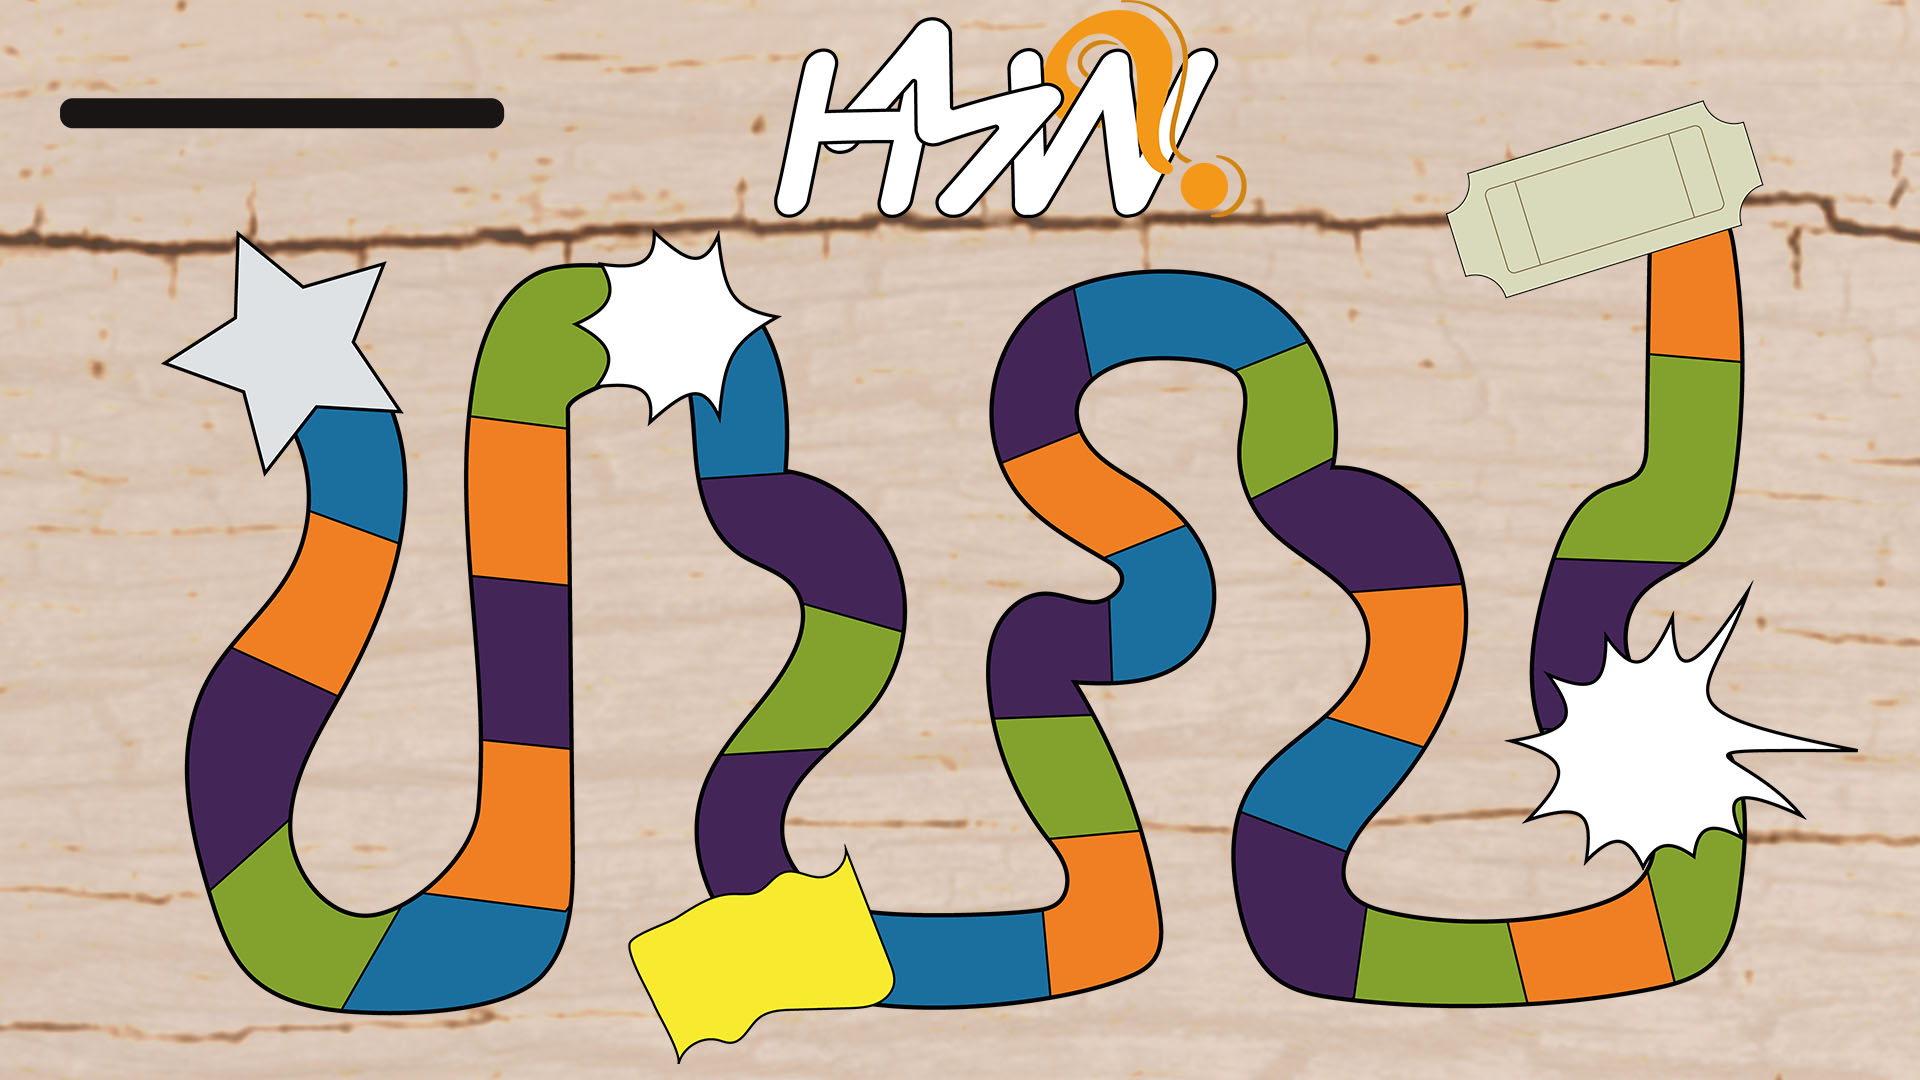
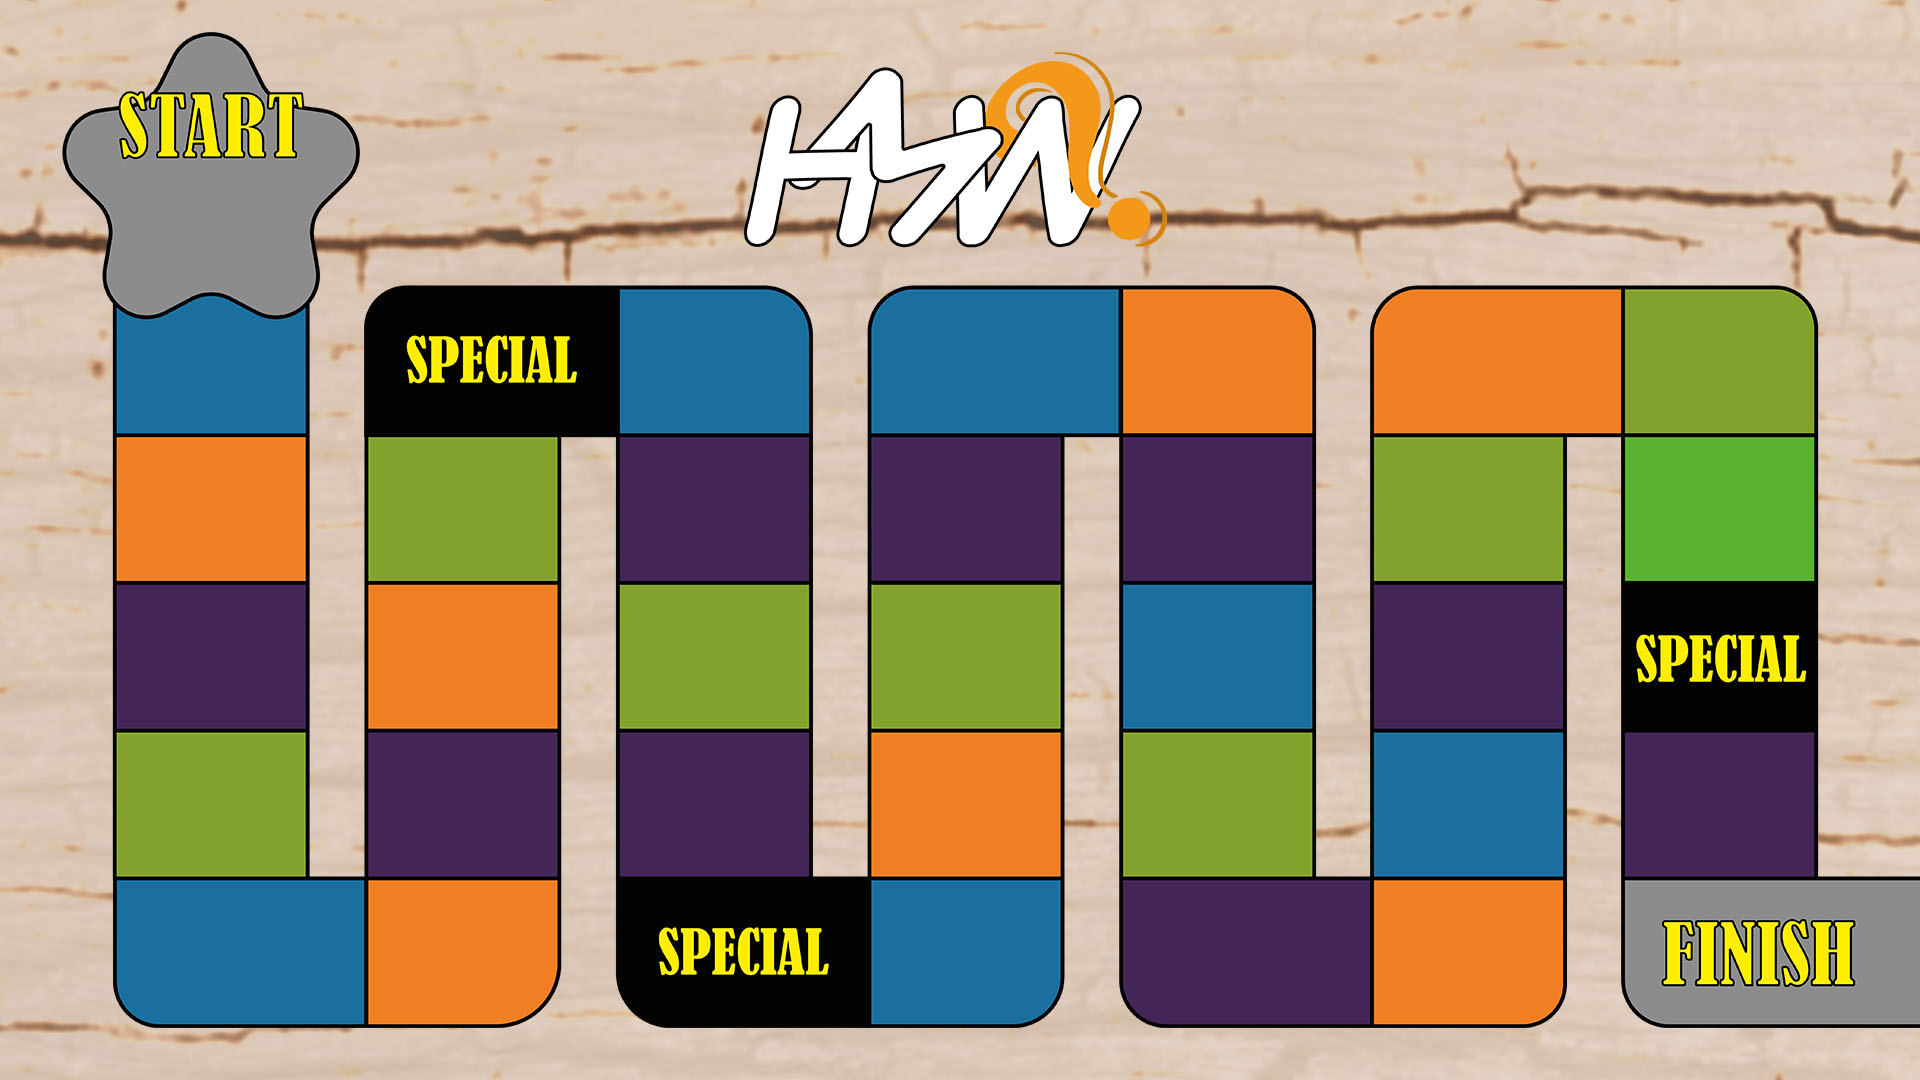
Change gameboard + start to add players

diff --git a/pGroupeA06/src/application/application.css b/pGroupeA06/src/application/application.css
@@ -248,3 +248,7 @@
     -fx-background-size: stretch,stretch;
     -fx-background-color: transparent;
 }
+
+.player {
+	
+}

diff --git a/pGroupeA06/src/vue/GameAP.java b/pGroupeA06/src/vue/GameAP.java
@@ -1,11 +1,143 @@
 package vue;
 
+import javafx.scene.Node;
+import javafx.scene.image.Image;
+import javafx.scene.image.ImageView;
 import javafx.scene.layout.AnchorPane;
+import util.Constants;
 
 public class GameAP extends AnchorPane {
 
+	private ImageView ivPlayer01;
+	private ImageView ivPlayer02;
+	private ImageView ivPlayer03;
+	private ImageView ivPlayer04;
+	private ImageView ivPlayer05;
+	private ImageView ivPlayer06;
+	private ImageView ivPlayer07;
+	private ImageView ivPlayer08;
 
 	public GameAP() {
-		this.getStyleClass().add("gameBoard");	
+		this.getStyleClass().add("gameBoard");
+		this.getChildren().addAll(getIvPlayer01(), getIvPlayer02(), getIvPlayer03(), getIvPlayer04(), getIvPlayer05(),
+				getIvPlayer06(), getIvPlayer07(), getIvPlayer08());
+
+		// Size
+		// P01
+		getIvPlayer01().setFitHeight(Constants.PLAYER_HEIGHT);
+		getIvPlayer01().setFitWidth(Constants.PLAYER_WIDTH);
+		// P02
+		getIvPlayer02().setFitHeight(Constants.PLAYER_HEIGHT);
+		getIvPlayer02().setFitWidth(Constants.PLAYER_WIDTH);
+		// P03
+		getIvPlayer03().setFitHeight(Constants.PLAYER_HEIGHT);
+		getIvPlayer03().setFitWidth(Constants.PLAYER_WIDTH);
+		// P04
+		getIvPlayer04().setFitHeight(Constants.PLAYER_HEIGHT);
+		getIvPlayer04().setFitWidth(Constants.PLAYER_WIDTH);
+		// P05
+		getIvPlayer05().setFitHeight(Constants.PLAYER_HEIGHT);
+		getIvPlayer05().setFitWidth(Constants.PLAYER_WIDTH);
+		// P06
+		getIvPlayer06().setFitHeight(Constants.PLAYER_HEIGHT);
+		getIvPlayer06().setFitWidth(Constants.PLAYER_WIDTH);
+		// P07
+		getIvPlayer07().setFitHeight(Constants.PLAYER_HEIGHT);
+		getIvPlayer07().setFitWidth(Constants.PLAYER_WIDTH);
+		// P08
+		getIvPlayer08().setFitHeight(Constants.PLAYER_HEIGHT);
+		getIvPlayer08().setFitWidth(Constants.PLAYER_WIDTH);
+
+		// Position
+		// P01
+		getIvPlayer01().setX(Constants.PLAYER_01_SQUARE_01_X);
+		getIvPlayer01().setY(Constants.PLAYER_01_SQUARE_01_Y);
+		// P02
+		getIvPlayer02().setX(Constants.PLAYER_02_SQUARE_01_X);
+		getIvPlayer02().setY(Constants.PLAYER_02_SQUARE_01_Y);
+		// P03
+		getIvPlayer03().setX(Constants.PLAYER_03_SQUARE_01_X);
+		getIvPlayer03().setY(Constants.PLAYER_03_SQUARE_01_Y);
+		// P04
+		getIvPlayer04().setX(Constants.PLAYER_04_SQUARE_01_X);
+		getIvPlayer04().setY(Constants.PLAYER_04_SQUARE_01_Y);
+		// P05
+		getIvPlayer05().setX(Constants.PLAYER_05_SQUARE_01_X);
+		getIvPlayer05().setY(Constants.PLAYER_05_SQUARE_01_Y);
+		// P06
+		getIvPlayer06().setX(Constants.PLAYER_06_SQUARE_01_X);
+		getIvPlayer06().setY(Constants.PLAYER_06_SQUARE_01_Y);
+		// P07
+		getIvPlayer07().setX(Constants.PLAYER_07_SQUARE_01_X);
+		getIvPlayer07().setY(Constants.PLAYER_07_SQUARE_01_Y);
+		// P08
+		getIvPlayer08().setX(Constants.PLAYER_08_SQUARE_01_X);
+		getIvPlayer08().setY(Constants.PLAYER_08_SQUARE_01_Y);
+
 	}
+
+	public ImageView getIvPlayer01() {
+		if (ivPlayer01 == null) {
+			Image tmp = new Image(getClass().getResourceAsStream("/img/Player_01.png"));
+			ivPlayer01 = new ImageView(tmp);
+		}
+		return ivPlayer01;
+	}
+
+	public ImageView getIvPlayer02() {
+		if (ivPlayer02 == null) {
+			Image tmp = new Image(getClass().getResourceAsStream("/img/Player_02.png"));
+			ivPlayer02 = new ImageView(tmp);
+		}
+		return ivPlayer02;
+	}
+
+	public ImageView getIvPlayer03() {
+		if (ivPlayer03 == null) {
+			Image tmp = new Image(getClass().getResourceAsStream("/img/Player_03.png"));
+			ivPlayer03 = new ImageView(tmp);
+		}
+		return ivPlayer03;
+	}
+
+	public ImageView getIvPlayer04() {
+		if (ivPlayer04 == null) {
+			Image tmp = new Image(getClass().getResourceAsStream("/img/Player_04.png"));
+			ivPlayer04 = new ImageView(tmp);
+		}
+		return ivPlayer04;
+	}
+
+	public ImageView getIvPlayer05() {
+		if (ivPlayer05 == null) {
+			Image tmp = new Image(getClass().getResourceAsStream("/img/Player_05.png"));
+			ivPlayer05 = new ImageView(tmp);
+		}
+		return ivPlayer05;
+	}
+
+	public ImageView getIvPlayer06() {
+		if (ivPlayer06 == null) {
+			Image tmp = new Image(getClass().getResourceAsStream("/img/Player_06.png"));
+			ivPlayer06 = new ImageView(tmp);
+		}
+		return ivPlayer06;
+	}
+
+	public ImageView getIvPlayer07() {
+		if (ivPlayer07 == null) {
+			Image tmp = new Image(getClass().getResourceAsStream("/img/Player_07.png"));
+			ivPlayer07 = new ImageView(tmp);
+		}
+		return ivPlayer07;
+	}
+
+	public ImageView getIvPlayer08() {
+		if (ivPlayer08 == null) {
+			Image tmp = new Image(getClass().getResourceAsStream("/img/Player_08.png"));
+			ivPlayer08 = new ImageView(tmp);
+		}
+		return ivPlayer08;
+	}
+
 }

diff --git a/pGroupeA06/src/util/Constants.java b/pGroupeA06/src/util/Constants.java
@@ -3,6 +3,7 @@ package util;
 public interface Constants {
 	public static final double 	INITIAL_VOLUME = 0,
 								VOLUME_FACTOR = 0.001;
+	
 	public static final int NB_QUESTIONS_MAX = 4,
 							SIZE_MAX_QUESTION = 65,
 							ANIMATION_TIME_START = 1000, //3000
@@ -13,6 +14,28 @@ public interface Constants {
 							TIMER_LIMIT = 5,
 							STRING_PERCENTAGE_ERROR_ANSWER=20,
 							NUMBER_PERCENTAGE_ERROR_ANSWER=2; 
-	public static final String DECK_PATH = "deck.JSON",
+	
+	public static final String 	DECK_PATH = "deck.JSON",
 								BOARD_PATH= "board.JSON";
+	
+	// Size Players	
+	public static final double 	PLAYER_HEIGHT = 100, PLAYER_WIDTH = 100;
+	
+	// Position Players
+	public static final double 	PLAYER_01_SQUARE_01_X = 91.,
+								PLAYER_01_SQUARE_01_Y = 150.,
+								PLAYER_02_SQUARE_01_X = 137.,
+								PLAYER_02_SQUARE_01_Y = 150.,
+								PLAYER_03_SQUARE_01_X = 183.,
+								PLAYER_03_SQUARE_01_Y = 150.,
+								PLAYER_04_SQUARE_01_X = 229.,
+								PLAYER_04_SQUARE_01_Y = 150.,
+								PLAYER_05_SQUARE_01_X = 91.,
+								PLAYER_05_SQUARE_01_Y = 200.,
+								PLAYER_06_SQUARE_01_X = 137.,
+								PLAYER_06_SQUARE_01_Y = 200.,
+								PLAYER_07_SQUARE_01_X = 183.,
+								PLAYER_07_SQUARE_01_Y = 200.,
+								PLAYER_08_SQUARE_01_X = 229.,
+								PLAYER_08_SQUARE_01_Y = 200.;
 }

diff --git a/pGroupeA06/src/application/SceneManager.java b/pGroupeA06/src/application/SceneManager.java
@@ -99,7 +99,9 @@ public class SceneManager {
 		stackSettings = new StackPane(settings);		
 		stackRating = new StackPane(rating);	
 		stackQuestion = new StackPane(question);
-		sceneRoot = new Scene(stackRoot, 1920, 1080);
+		
+//		sceneRoot = new Scene(stackRoot, 1920, 1080);
+		sceneRoot = new Scene(stackGame, 1920, 1080);
 	
 		//adding stackPane to the list
 		//no.clone() because the equals method is not redefined, so we need the real object
